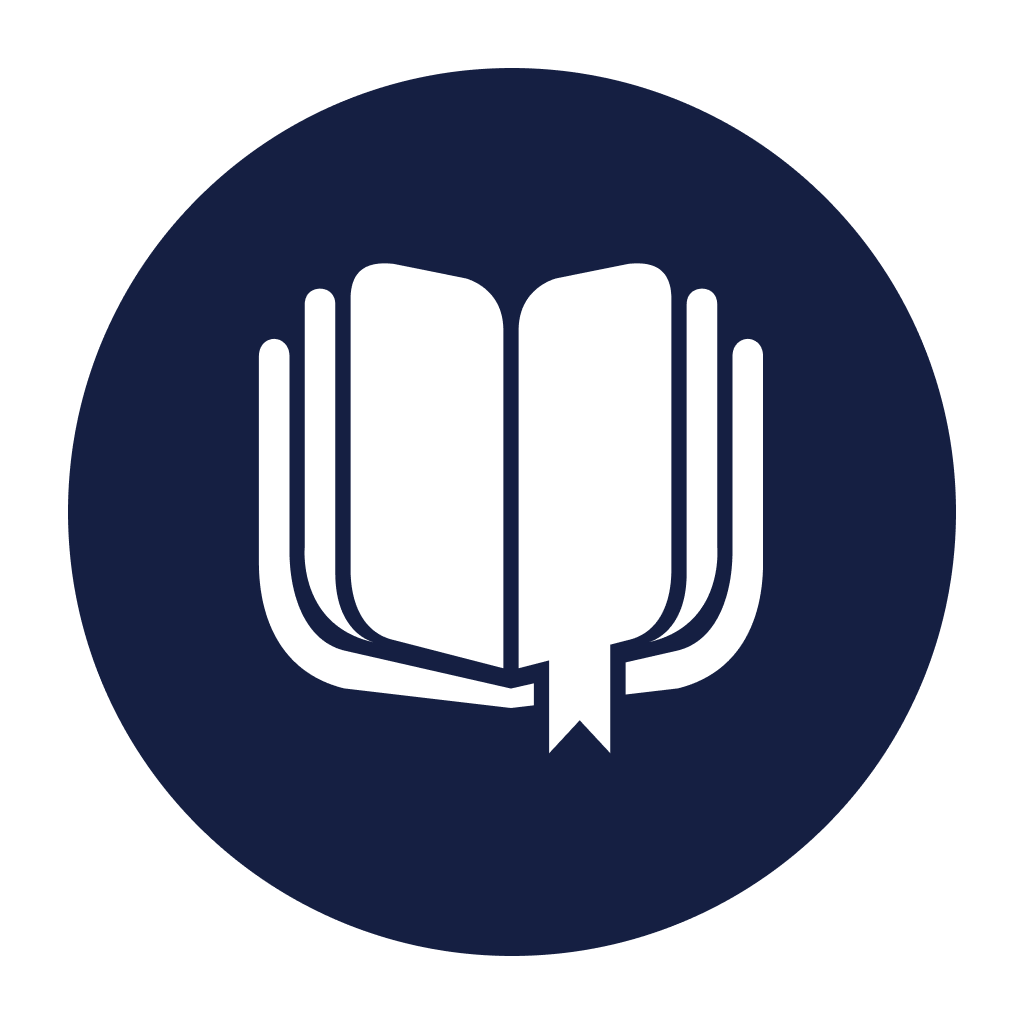
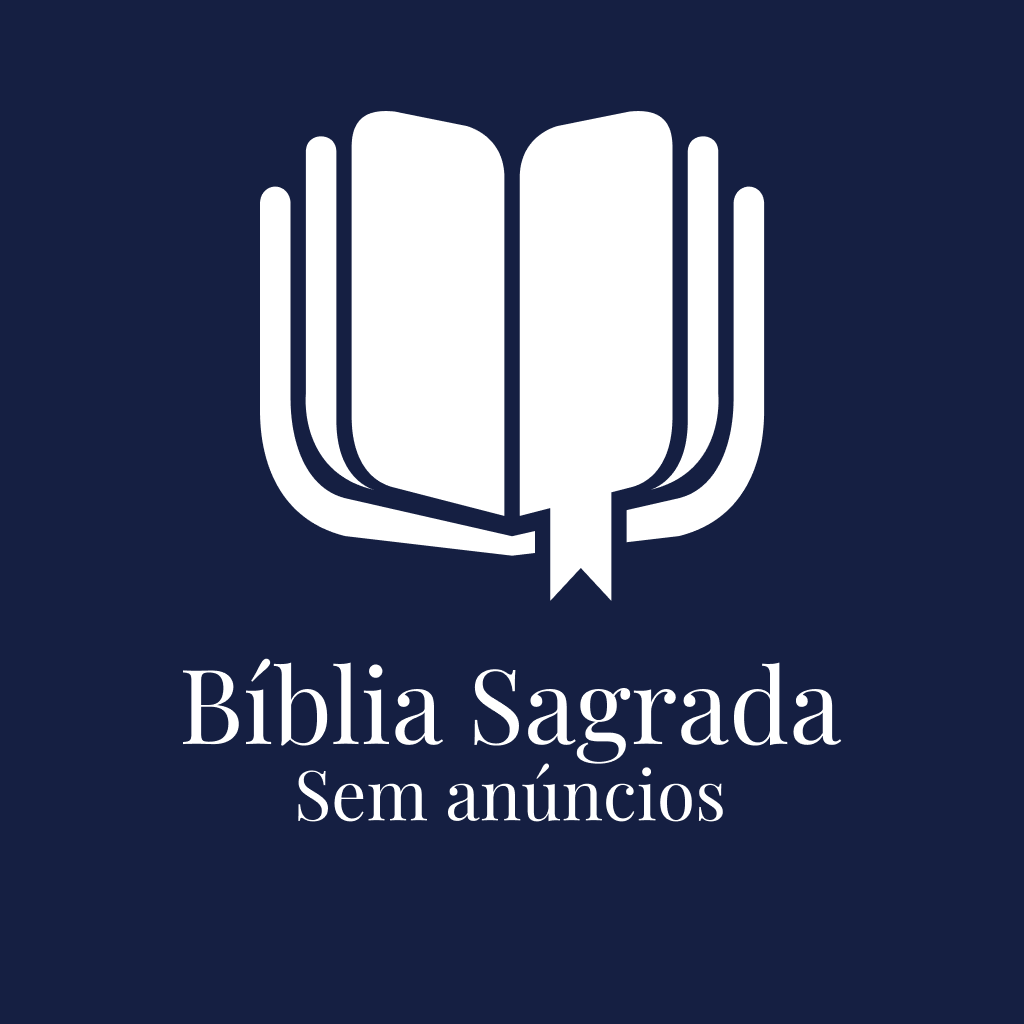
Ajustes na versão 1.0.1

diff --git a/src/database/initializeDatabase.ts b/src/database/initializeDatabase.ts
@@ -12,8 +12,9 @@ export async function initializeDatabase(database: SQLiteDatabase) {
         return;
     }
 
-    try {
-        await database.execAsync(`
+    setTimeout(async () => {
+        try {
+            await database.execAsync(`
                 CREATE TABLE IF NOT EXISTS "testaments" (
                     "id" INTEGER NOT NULL,
                     "name" VARCHAR(75) NOT NULL,
@@ -155,20 +156,21 @@ export async function initializeDatabase(database: SQLiteDatabase) {
                 CREATE INDEX idx_testaments_id ON testaments(id);
             `);
 
-        await insertNvi(database);
-        await insertAcf(database);
-        await insertRa(database);
+            await insertNvi(database);
+            await insertAcf(database);
+            await insertRa(database);
 
-        await database.execAsync(`
+            await database.execAsync(`
             INSERT INTO verses_fts (id, version, testament, book, chapter, verse, text)
             SELECT id, version, testament, book, chapter, verse, text FROM verses;
         `);
 
-        await AsyncStorage.setItem('isDatabaseInitialized', 'true');
+            await AsyncStorage.setItem('isDatabaseInitialized', 'true');
 
-        console.log("Database initialized successfully.");
-    } catch (error) {
-        console.error("Error initializing database:", error);
-        throw error;
-    }
+            console.log("Database initialized successfully.");
+        } catch (error) {
+            console.error("Error initializing database:", error);
+            throw error;
+        }
+    }, 0);
 }

diff --git a/nativewind-env.d.ts b/nativewind-env.d.ts
@@ -1,0 +1,3 @@
+/// <reference types="nativewind/types" />
+
+// NOTE: This file should not be edited and should be committed with your source code. It is generated by NativeWind.

diff --git a/README.md b/README.md
@@ -1,14 +1,14 @@
-# Política de Privacidade - Bíblia Sagrada Sem Anúncios
+# Política de Privacidade - Bíblia Sagrada
 
 **Última atualização: 19/08/2024**
 
 ## 1. Introdução
 
-Bem-vindo ao aplicativo Bíblia Sagrada Sem Anúncios. Esta Política de Privacidade descreve como protegemos a sua privacidade ao utilizar o nosso aplicativo. Entendemos a importância de sua privacidade e estamos comprometidos em protegê-la.
+Bem-vindo ao aplicativo Bíblia Sagrada. Esta Política de Privacidade descreve como protegemos a sua privacidade ao utilizar o nosso aplicativo. Entendemos a importância de sua privacidade e estamos comprometidos em protegê-la.
 
 ## 2. Coleta de Informações
 
-O aplicativo Bíblia Sagrada Sem Anúncios não coleta, armazena ou processa quaisquer informações pessoais ou dados do usuário. Nosso aplicativo é projetado exclusivamente para fornecer acesso ao texto da Bíblia para leitura e consulta.
+O aplicativo Bíblia Sagrada não coleta, armazena ou processa quaisquer informações pessoais ou dados do usuário. Nosso aplicativo é projetado exclusivamente para fornecer acesso ao texto da Bíblia para leitura e consulta.
 
 ## 3. Uso de Informações
 
